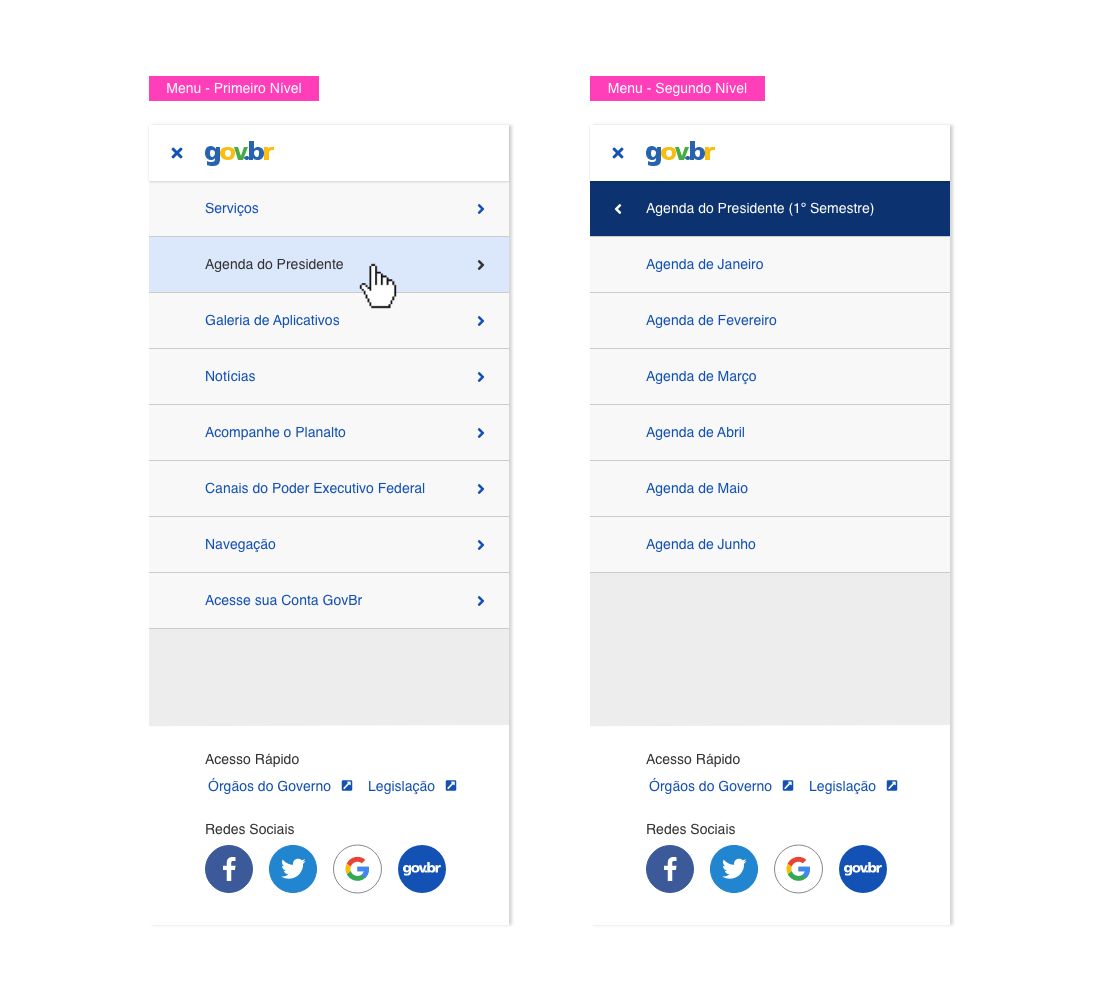
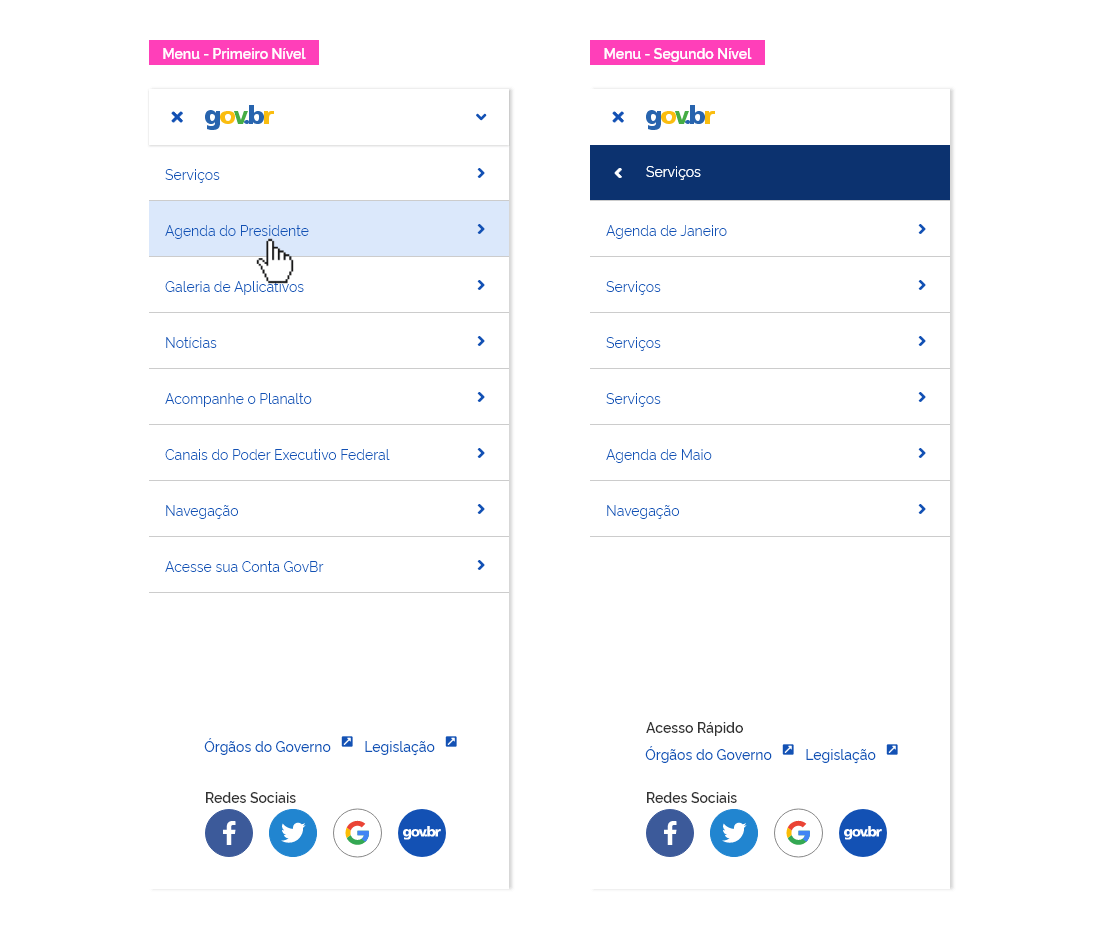
feat: nova release do componente menu

diff --git a/docs/components/menu/menu-dsg.md b/docs/components/menu/menu-dsg.md
@@ -1,5 +1,4 @@
-[version]: # '1.0.0'
-[artefato fonte de design]: # 'menu_1.0.0.xd'
+[version]: # '1.0.1'
 
 ![Exemplo Componente](imagens/menu-anatomy-types.png)
 
@@ -373,7 +372,7 @@ Ocorre quando o item do menu foi selecionado e o painel de subitens aparece.
 | ----------------- | -------------- | :----: |
 | Cabeçalho do Menu | padding-left   | `16px` |
 | Cabeçalho do Menu | padding-right  | `16px` |
-| Item do Menu      | padding-left   | `56px` |
+| Item do Menu      | padding-left   | `16px` |
 | Item do Menu      | padding-right  | `16px` |
 | Rodapé            | padding-left   | `56px` |
 | Rodapé            | padding-right  | `16px` |
